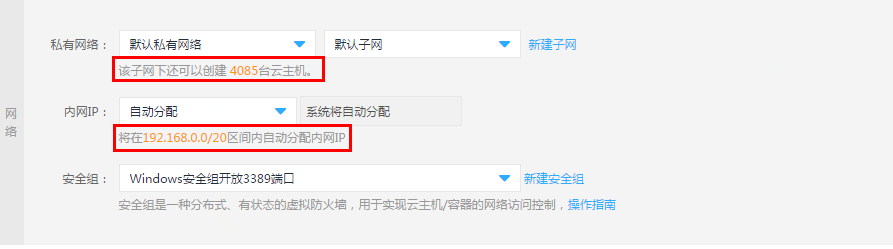
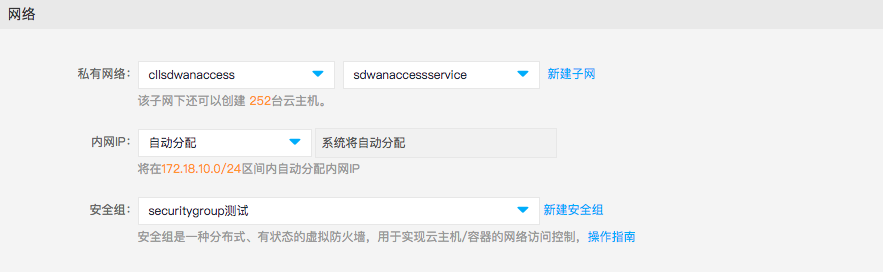
somemistake

diff --git a/documentation/Elastic-Compute/Virtual-Machines/Getting-Start-Windows/Select-Configuration-Windows.md b/documentation/Elastic-Compute/Virtual-Machines/Getting-Start-Windows/Select-Configuration-Windows.md
@@ -8,19 +8,20 @@
 * 地域与可用区：
 
 	当前覆盖国内 **华北-北京（双可用区）、华南-广州（单可用区）、华东-宿迁（单可用区）、华东-上海 （双可用区）** 四地域多可用区，不同地域之间完全隔离，以保证不同地域间最大程度的稳定性和容错性，地域信息详情请参见[地域与可用区]。
-
 	选择地域时建议考虑以下几点：
-
+	
 	* 选择最靠近您客户的地域，可降低访问时延、提高下载速度；同时京东云在华北-北京、华南-广州及华东-上海提供BGP公网IP，可保证中国大陆地区快速访问；比如您的用户大部分位于珠江三角洲附近时，华南-广州地域是较好的选择；
 	* 其他京东云产品的部署地域及与实例的通信需求，实例默认不可跨地域内网互访，默认不可跨地域访问云数据库及云缓存等其他云产品；实例仅支持绑定同地域下的公网IP和负载均衡
 （上述内网互通是均指同一账户下的资源互通，不同账户的资源内网完全隔离。）
 
 * 创建方式：
-   
-   可选三种创建方式 **自定义创建** 、 **使用实例模板创建** 、 **在高可用组内创建**
+
+	可选三种创建方式 **自定义创建** 、 **使用实例模板创建** 、 **在高可用组内创建**
+    
     * 自定义创建：自定义全部实例配置项。
     * 使用实例模板创建：基于已建实例模板的预设配置快速创建实例，详见[实例模板](../Operation-Guide/Instance-Template/Instance-Template-Overview.md)。
     * 在高可用组内创建：基于已建高可用组指定的可用区及实例模板快速创建实例，详见[高可用组](../../Availability-Group/Introduction/Product-Overview.md)。
+
 * 镜像：
    
    提供 **官方镜像** 、 **私有镜像** 、 **共享镜像** 、 **镜像市场镜像**。
@@ -29,9 +30,11 @@
    *  私有镜像：基于用户自有云主机实例创建的自定义镜像，您可以为已部署业务的主机制作镜像，基于此镜像快速创建多个具有相同配置和软件环境的主机。您可以将私有镜像共享给同其他京东云用户，被共享镜像会显示在目标用户同区域的共享镜像列表中。私有镜像仅拥有者和指定的共享账户可以使用。
    * 共享镜像：由其他京东云用户通过镜像共享功能所分享而来的用户自定义镜像。共享镜像仅可在相同地域下用于创建云主机，不可进行基本信息修改、删除等操作，若发起共享的用户取消了共享，则该镜像会从列表中自动删除。
    * 镜像市场镜像：由入驻云市场的服务商所提供的镜像，集成了针对不同业务场景的运行环境或软件，方便用户快速部署业务，所有用户均可以使用。       
+
 * 规格：
     
     提供 **通用** 、 **计算** 、 **内存优化** 、 **高频计算** 四类实例规格，从最小规格1C1GB（如g.s1.micro）到最大规格72C576GB（如m.n2.18xlarge），您可根据不同应用量级选择最优CPU内存比例的实例规格，详见[实例规格](../Introduction/Instance-Type-Family.md)。
+
 * 存储：
     
     京东云提供云硬盘和本地硬盘两种类型。本地盘是云服务器所在的物理机上的存储设备，可以获得较低的时延，但存在单点数据丢失风险。云硬盘采用一盘多备的分布式存储方式，数据可靠性高 。云硬盘提供 **SSD云盘** 和 **高效云盘** 两种云硬盘供实例作为系统盘和数据盘，详见[云硬盘类型]
@@ -45,7 +48,7 @@
    * SSD云盘做数据盘：20G~1000G 
  
 * 网络：
-    *  私有网络及子网：可先行规划并创建私有网络和子网，如不创建支持使用系统自动创建的默认私有网络和默认子网，详见[私有网络](http://docs.jdcloud.com/cn/virtual-private-cloud/product-overview)和[子网](http://docs.jdcloud.com/cn/virtual-private-cloud/subnet-features)。
+    *  私有网络及子网：您需先行规划并创建私有网络和子网，详见[私有网络](http://docs.jdcloud.com/cn/virtual-private-cloud/product-overview)和[子网](http://docs.jdcloud.com/cn/virtual-private-cloud/subnet-features)。
     *  内网IP：为云主机指定主网卡内网IP地址，可在所选子网可用IP地址内任意指定，如无特殊要求可选择由系统自动分配。内网IP一旦分配至云主机将不可更改。
     *  安全组：可先行在每个私有网络下创建符合访问控制要求的安全组，如不创建支持从系统自动为每个私有网络创建的3个安全组模板中选择一个绑定，详[安全组概述](http://docs.jdcloud.com/cn/virtual-private-cloud/security-group-features)。
  

diff --git a/documentation/Service-Agreements-and-Guarantees/Product-Service-Agreement/Cloud-Host-Service-Level-Agreement-SLA.md b/documentation/Service-Agreements-and-Guarantees/Product-Service-Agreement/Cloud-Host-Service-Level-Agreement-SLA.md
@@ -12,7 +12,7 @@
 
 数据持久性计算公式：每服务周期完好数据的云主机磁盘/(每服务周期完好数据的云主机磁盘+每服务周期丢失数据的云主机磁盘)。
 
-即，每10000个云主机磁盘，每月数据不丢失的概率为99.9999999% ，即每月最多只有1个云主机磁盘可能发生数据丢失。
+即,每1000000000块已挂载至云主机的云硬盘,每月数据不丢失的概率为99.9999999% ,即每月最多只有1块已挂载至云主机的云硬盘可能发生数据丢失。
 
 **2.2数据可销毁性**
 
@@ -60,25 +60,22 @@
 
 （2）不可用时间：云主机服务所提供的服务在连续的5分钟或更长时间不可使用方计为不可用时间，不可使用的服务时间低于5分钟的，不计入不可用时间，云主机服务不可用时间不包括日常系统维护时间、由用户原因、第三方原因或不可抗力导致的不可用时间。
 
-**2.9 服务资源调配能力**
 
-云主机服务提供多种配置并具备弹性扩容能力，用户可根据需要按照京东云配置方案自行在线扩展或缩减所使用的云主机资源。用户可在10分钟内启用或释放100台云主机，或在5分钟内完成停机升级CPU和内存，并支持在线实时升级公网带宽。
-
-**2.10 故障恢复能力**
+**2.9 故障恢复能力**
 
 京东云为付费用户的云服务提供7×24小时的运行维护，并以电话报障等方式提供技术支持，具备完善的故障监控、自动告警、快速定位、快速恢复等一系列故障应急响应机制。
 
-**2.11 网络接入性能**
+**2.10 网络接入性能**
 
 用户在开通京东云云主机服务时，可自主选择每个云主机所需的公网出口带宽，公网出口带宽可配置的范围从1Mbps至200Mbps。京东云提供BGP多线接入，保障用户的网络接入质量。
 
-**2.12 服务计量准确性**
+**2.11 服务计量准确性**
 
 云主机服务具备准确、透明的计量计费系统，京东云根据用户的云主机实际使用量据实结算，实时扣费，具体计费标准以京东云官网公布的有效的计费模式与价格为准。用户的原始计费日志默认最少保留3年备查。
 
-**2.13 服务赔偿条款**
+**2.12 服务赔偿条款**
 
-2.13.1 赔偿范围：
+2.12.1 赔偿范围：
 
 因京东云故障导致云主机无法正常使用，以及京东云故障引起的网站无法正常访问，京东云将对不可用时间进行赔偿，但不包括以下原因所导致的服务不可用时间：
 
@@ -100,7 +97,7 @@
 
 （9）其他非京东云原因所造成的不可用。
 
-2.13.2 赔偿方案
+2.12.2 赔偿方案
 
 故障时间=不可用时间。
 

diff --git a/documentation/Elastic-Compute/Virtual-Machines/Getting-Start-Linux/Create-Linux-Instance.md b/documentation/Elastic-Compute/Virtual-Machines/Getting-Start-Linux/Create-Linux-Instance.md
@@ -34,7 +34,7 @@
 ![](../../../../image/vm/Getting-Start-Linux-Create-disk.png)
 
 9. 配置实例网络：
-   * 选择私有网络及子网：若当前地域未创建可以选择“默认私有网络”和“默认子网”。选择子网后，系统会判断该子网下，还有可以创建的云主机数量，如果暂时没有子网，可以通过快速入口新建子网，并在“云主机网络”进行选择，详细请参见[私有网络](http://docs.jdcloud.com/cn/virtual-private-cloud/product-overview)和[子网](http://docs.jdcloud.com/cn/virtual-private-cloud/subnet-features)。
+   * 选择私有网络及子网：您需先行创建VPC及子网。选择子网后，系统会判断该子网下，还有可以创建的云主机数量，如果暂时没有子网，可以通过快速入口新建子网，并在“云主机网络”进行选择，详细请参见[私有网络](http://docs.jdcloud.com/cn/virtual-private-cloud/product-overview)和[子网](http://docs.jdcloud.com/cn/virtual-private-cloud/subnet-features)。
    * 选择内网IP分配方式：如对内网IP地址没有特殊要求，可以不指定由系统自动在子网可用网段内分配，如需指定请在提示范围内输入，系统会校验IP是否可用。须注意的是，若选择自定义内网IP地址，则无法批量创建实例。
    * 选择安全组：实例在创建时必须绑定一个安全组，若当前地域下未创建自定义安全组，可以在系统创建的三个默认安全组中选择一个绑定（每个私有网络创建成功之后都会自动创建三个默认安全组），也可以通过快速入口前往安全组页面[创建安全组](http://docs.jdcloud.com/cn/virtual-private-cloud/security-group-configuration)。由于官方镜像系统内防火墙默认关闭，建议绑定仅开放22端口（Linux）或3389端口（Windows）的安全组，实例创建之后再根据访问需求创建新的安全组并绑定。    
 ![](../../../../image/vm/Getting-Start-Linux-Create-network.png)

diff --git a/documentation/Elastic-Compute/Virtual-Machines/Getting-Start-Windows/Create-Windows-Instance.md b/documentation/Elastic-Compute/Virtual-Machines/Getting-Start-Windows/Create-Windows-Instance.md
@@ -35,7 +35,7 @@
 ![](../../../../image/vm/Getting-Start-Linux-Create-disk.png)
 
 9. 配置实例网络：
-   * 选择私有网络及子网：若当前地域未创建可以选择“默认私有网络”和“默认子网”。选择子网后，系统会判断该子网下，还有可以创建的云主机数量，如果暂时没有子网，可以通过快速入口新建子网，并在“云主机网络”进行选择，详细请参见[私有网络](http://docs.jdcloud.com/cn/virtual-private-cloud/product-overview)和[子网](http://docs.jdcloud.com/cn/virtual-private-cloud/subnet-features)。
+   * 选择私有网络及子网：您需先行创建VPC及子网。选择子网后，系统会判断该子网下，还有可以创建的云主机数量，如果暂时没有子网，可以通过快速入口新建子网，并在“云主机网络”进行选择，详细请参见[私有网络](http://docs.jdcloud.com/cn/virtual-private-cloud/product-overview)和[子网](http://docs.jdcloud.com/cn/virtual-private-cloud/subnet-features)。
    * 选择内网IP分配方式：如对内网IP地址没有特殊要求，可以不指定由系统自动在子网可用网段内分配，如需指定请在提示范围内输入，系统会校验IP是否可用。须注意的是，若选择自定义内网IP地址，则无法批量创建实例。
    * 选择安全组：实例在创建时必须绑定一个安全组，若当前地域下未创建自定义安全组，可以在系统创建的三个默认安全组中选择一个绑定（每个私有网络创建成功之后都会自动创建三个默认安全组），也可以通过快速入口前往安全组页面[创建安全组](http://docs.jdcloud.com/cn/virtual-private-cloud/security-group-configuration)。由于官方镜像系统内防火墙默认关闭，建议绑定仅开放22端口（Linux）或3389端口（Windows）的安全组，实例创建之后再根据访问需求创建新的安全组并绑定。    
 ![](../../../../image/vm/Getting-Start-Linux-Create-network.png)

diff --git a/documentation/Elastic-Compute/Virtual-Machines/Getting-Start-Linux/Select-Configuration-Linux.md b/documentation/Elastic-Compute/Virtual-Machines/Getting-Start-Linux/Select-Configuration-Linux.md
@@ -48,7 +48,7 @@
    * SSD云盘做数据盘：20G~1000G。
 
 * 网络：
-    *  私有网络及子网：可先行规划并创建私有网络和子网，如不创建支持使用系统自动创建的默认私有网络和默认子网，详见[私有网络](http://docs.jdcloud.com/cn/virtual-private-cloud/product-overview)和[子网](http://docs.jdcloud.com/cn/virtual-private-cloud/subnet-features)。
+    *  私有网络及子网：您需先行规划并创建私有网络和子网，详见[私有网络](http://docs.jdcloud.com/cn/virtual-private-cloud/product-overview)和[子网](http://docs.jdcloud.com/cn/virtual-private-cloud/subnet-features)。
     *  内网IP：为云主机指定主网卡内网IP地址，可在所选子网可用IP地址内任意指定，如无特殊要求可选择由系统自动分配。内网IP一旦分配至云主机将不可更改。
     *  安全组：可先行在每个私有网络下创建符合访问控制要求的安全组，如不创建支持从系统自动为每个私有网络创建的3个安全组模板中选择一个绑定，详见[安全组概述](http://docs.jdcloud.com/cn/virtual-private-cloud/security-group-features)。
 
